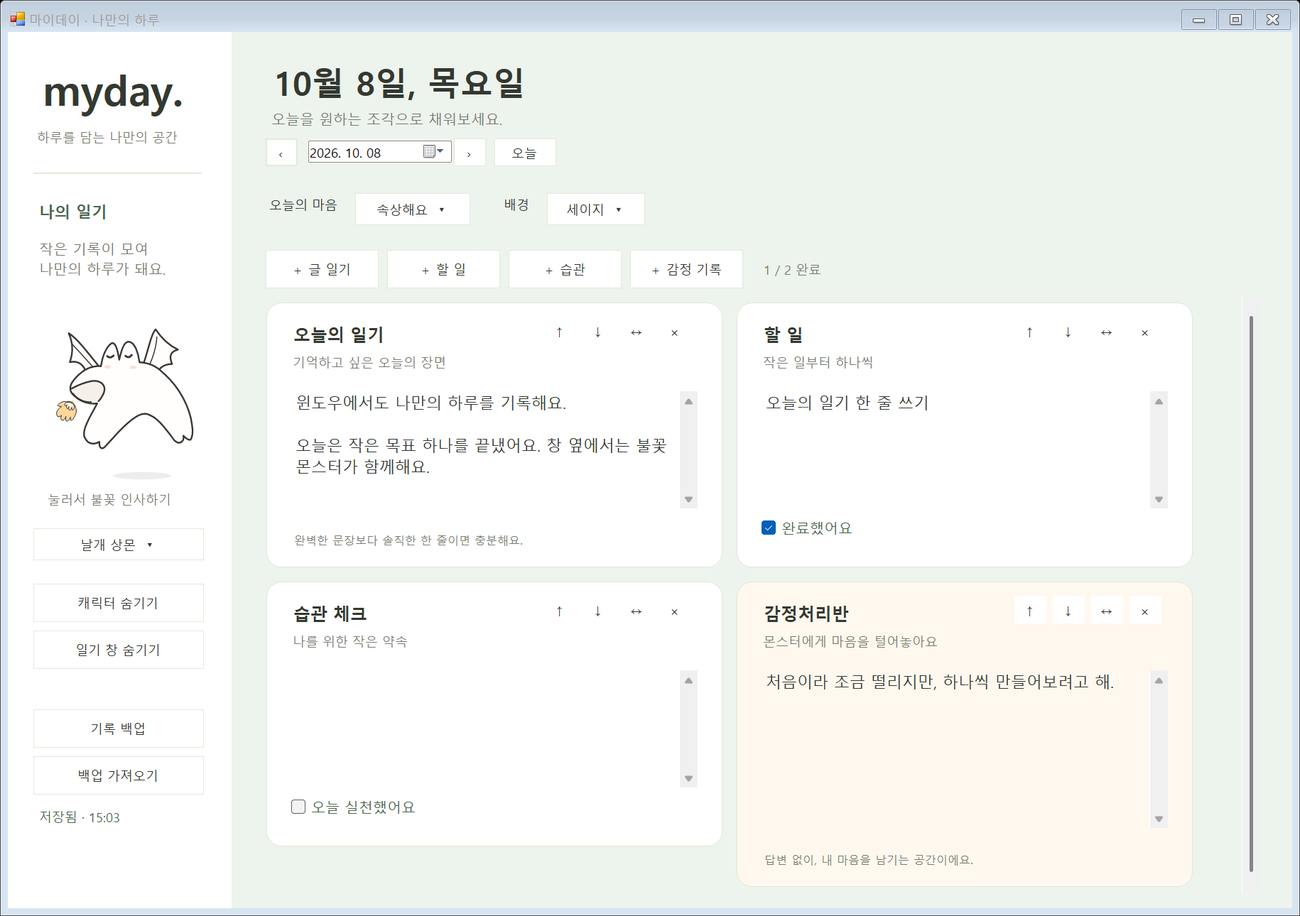
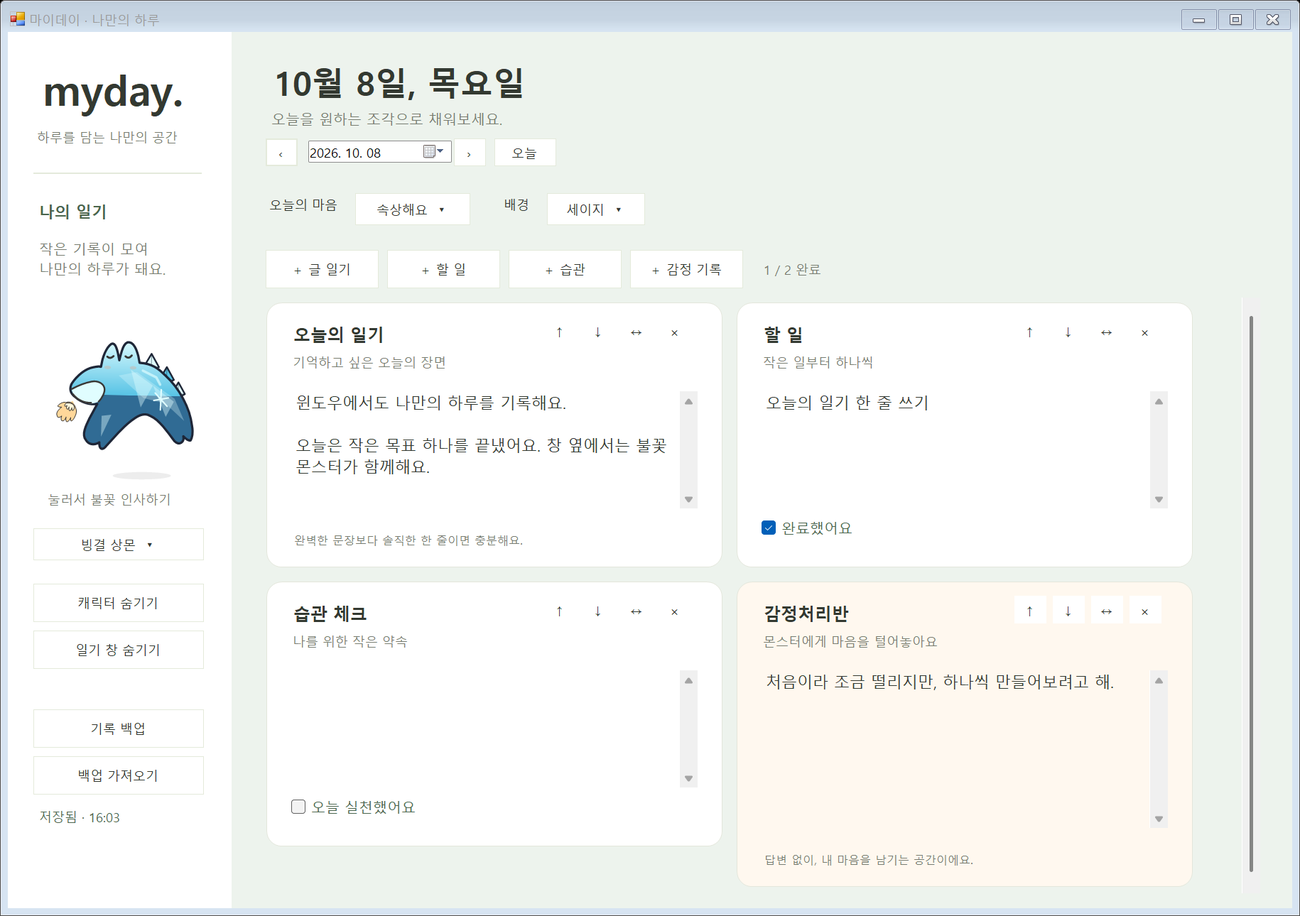
feat: add RPG elemental styles for Sangmon

Changed region(s): [[0.0311, 0.3721, 0.1557, 0.4961], [0.0623, 0.5891, 0.0934, 0.6202]]

diff --git a/windows/Character/GameSkins.cs b/windows/Character/GameSkins.cs
@@ -1,0 +1,156 @@
+using System;
+using System.Drawing;
+using System.Drawing.Drawing2D;
+using Outline=MyDay.Windows.Character.MonsterPainter.Shape;
+
+namespace MyDay.Windows.Character
+{
+    // RPG monster materials share Sangmon's original body path, face and gestures.
+    internal static class GameSkins
+    {
+        public static bool IsGame(MonsterVariant variant) { return (int)variant>=(int)MonsterVariant.Ember && (int)variant<=(int)MonsterVariant.Astral; }
+        public static Color Light(MonsterVariant variant)
+        {
+            switch(variant) {
+                case MonsterVariant.Ember: return Color.FromArgb(255,218,137);
+                case MonsterVariant.Frost: return Color.FromArgb(224,253,255);
+                case MonsterVariant.Volt: return Color.FromArgb(255,245,162);
+                case MonsterVariant.Venom: return Color.FromArgb(214,248,156);
+                case MonsterVariant.Shadow: return Color.FromArgb(202,182,238);
+                case MonsterVariant.Golem: return Color.FromArgb(223,220,203);
+                case MonsterVariant.Ocean: return Color.FromArgb(190,247,246);
+                default: return Color.FromArgb(217,211,255);
+            }
+        }
+        public static Color Tone(MonsterVariant variant)
+        {
+            switch(variant) {
+                case MonsterVariant.Ember: return Color.FromArgb(235,100,70);
+                case MonsterVariant.Frost: return Color.FromArgb(88,195,229);
+                case MonsterVariant.Volt: return Color.FromArgb(243,198,54);
+                case MonsterVariant.Venom: return Color.FromArgb(105,177,73);
+                case MonsterVariant.Shadow: return Color.FromArgb(115,77,165);
+                case MonsterVariant.Golem: return Color.FromArgb(138,145,136);
+                case MonsterVariant.Ocean: return Color.FromArgb(45,163,192);
+                default: return Color.FromArgb(108,109,218);
+            }
+        }
+        private static Color Dark(MonsterVariant variant)
+        {
+            var tone=Tone(variant); return Color.FromArgb(tone.R*55/100,tone.G*55/100,tone.B*65/100);
+        }
+        private static readonly Color Ink=Color.FromArgb(30,38,55);
+        public static bool PaintBody(Graphics g,Outline body,MonsterPose pose,MonsterVariant variant)
+        {
+            if(!IsGame(variant)) return false;
+            var saved=g.Save(); g.SetClip(body.Path,CombineMode.Intersect);
+            using(var fill=new LinearGradientBrush(new Rectangle(90,422,470,370),Light(variant),Dark(variant),90)) {
+                fill.InterpolationColors=new ColorBlend {
+                    Colors=new[] {Light(variant),Tone(variant),Dark(variant),Dark(variant)},
+                    Positions=new[] {0f,.49f,.491f,1f}
+                };
+                g.FillPath(fill,body.Path);
+            }
+            // A hard lower facet and a short highlight give a readable game silhouette.
+            using(var facet=new Outline().M(274,540).L(334,528).L(459,611).L(492,682).L(429,627).L(357,611).Close())
+                Fill(g,facet,Color.FromArgb(75,Light(variant)),false);
+            Line(g,new Outline().M(353,523).L(398,544).L(411,567),8,Color.FromArgb(170,Light(variant)));
+            Color accent=Light(variant);
+            switch(variant) {
+                case MonsterVariant.Ember:
+                    using(var plate=new Outline().M(363,560).L(394,547).L(444,590).L(467,646).L(426,631).L(398,597).Close()) Fill(g,plate,Ink,false);
+                    Line(g,new Outline().M(389,556).L(405,581).L(394,600).L(427,616).L(450,640)
+                        .M(405,581).L(432,580).M(427,616).L(423,637),6,Color.FromArgb(255,190+(int)(pose.Pulse*40),98));
+                    break;
+                case MonsterVariant.Frost:
+                    using(var facets=new Outline().M(314,521).L(387,570).L(348,641).Close()
+                        .M(388,571).L(457,621).L(431,670).Close().M(220,670).L(252,666).L(219,737).Close()) Fill(g,facets,Color.FromArgb(105,accent),false);
+                    Line(g,new Outline().M(395,594).L(435,636).M(415,583).L(413,648).M(391,618).L(439,609),5,accent); break;
+                case MonsterVariant.Volt:
+                    using(var bolt=new Outline().M(399,548).L(372,601).L(408,601).L(387,652)
+                        .L(448,581).L(412,584).L(432,550).Close()) Fill(g,bolt,Ink,false);
+                    Line(g,new Outline().M(395,563).L(382,594).L(420,594).L(406,619),4,accent); break;
+                case MonsterVariant.Venom:
+                    using(var ooze=new Outline().M(325,521).Q(388,520,448,569).L(451,615)
+                        .Q(438,635,426,608).L(423,589).Q(410,622,397,596).L(390,563)
+                        .Q(370,579,358,553).Close()) Fill(g,ooze,Color.FromArgb(128,64,147),false);
+                    Dot(g,386,616,9,accent); Dot(g,414,641,6,accent); break;
+                case MonsterVariant.Shadow:
+                    using(var mist=new Outline().M(323,537).Q(383,524,437,585).L(480,670).L(439,644)
+                        .L(458,674).Q(369,632,377,581).L(344,591).Close()) Fill(g,mist,Color.FromArgb(54,42,96),false);
+                    Line(g,new Outline().M(387,587).L(421,599).L(394,621).L(418,637),5,Color.FromArgb(208,163,255)); break;
+                case MonsterVariant.Golem:
+                    using(var plates=new Outline().M(325,531).L(365,530).L(390,562).L(374,593).L(335,585).Close()
+                        .M(385,585).L(421,570).L(452,606).L(437,638).L(401,626).Close()) Fill(g,plates,Tone(variant));
+                    Line(g,new Outline().M(412,589).L(402,609).L(425,609).M(413,595).L(416,622),5,Color.FromArgb(156,231,198)); break;
+                case MonsterVariant.Ocean:
+                    Line(g,new Outline().M(307,557).C(337,531,360,584,385,565).C(413,545,430,595,457,579)
+                        .M(366,601).C(393,580,420,631,452,611),7,accent);
+                    Dot(g,398,639,7,Color.FromArgb(210,accent)); break;
+                case MonsterVariant.Astral:
+                    Line(g,new Outline().M(399,557).L(439,579).L(437,621).L(400,641).L(364,619).L(365,578).Close()
+                        .M(399,557).L(400,641).M(365,578).L(437,621).M(439,579).L(364,619),4,Color.FromArgb(245,213,132));
+                    Gem(g,400,603,13,Color.FromArgb(250,225,160)); break;
+            }
+            g.Restore(saved);
+            using(var pen=new Pen(Ink,7.5f) { LineJoin=LineJoin.Round,StartCap=LineCap.Round,EndCap=LineCap.Round }) g.DrawPath(pen,body.Path);
+            return true;
+        }
+        public static void DrawBehind(Graphics g,MonsterPose pose,MonsterVariant variant)
+        {
+            if(!IsGame(variant)) return;
+            float sway=(float)Math.Sin(pose.Phase*Math.PI*2/4.2)*6;
+            Color light=Light(variant),tone=Tone(variant);
+            switch(variant) {
+                case MonsterVariant.Ember:
+                    using(var ridge=new Outline().M(364,529).L(377,487).L(401,550).L(427,520)
+                        .L(440,581).L(472,563).L(476,622).Close()) Fill(g,ridge,Ink);
+                    Line(g,new Outline().M(383,501).L(392,534).M(432,539).L(441,567).M(470,585).L(468,607),4,light); break;
+                case MonsterVariant.Frost:
+                    Gem(g,381,511,25,light); Gem(g,432,551,24,tone); Gem(g,471,596,22,light); break;
+                case MonsterVariant.Volt:
+                    Line(g,new Outline().M(434,509+sway).L(468,496+sway).L(451,524+sway).L(487,534+sway)
+                        .M(493,589-sway).L(530,599-sway).L(516,629-sway).L(544,642-sway),6,light); break;
+                case MonsterVariant.Venom:
+                    Bubble(g,439,515+sway,13,light); Bubble(g,480,550-sway,9,tone);
+                    Bubble(g,515,582+sway,6,light); break;
+                case MonsterVariant.Shadow:
+                    using(var shade=new Outline().M(433,540).Q(485,516+sway,496,493+sway).Q(494,550,477,574)
+                        .Q(549,542,550,575).Q(529,601,506,614).Q(552,605,558,638)
+                        .L(504,681).Close()) Fill(g,shade,Color.FromArgb(128,100,181)); break;
+                case MonsterVariant.Golem:
+                    using(var rocks=new Outline().M(359,527).L(353,486).L(385,470).L(409,542)
+                        .L(440,527).L(480,565).L(464,609).Close()) Fill(g,rocks,tone);
+                    Line(g,new Outline().M(366,488).L(395,533).M(453,544).L(466,567),4,light); break;
+                case MonsterVariant.Ocean:
+                    using(var crest=new Outline().M(383,540).Q(410,482,441,480).Q(420,524,458,538)
+                        .Q(446,567,480,587).L(454,625).Close()) Fill(g,crest,tone);
+                    Bubble(g,478,526+sway,9,light); Bubble(g,522,565-sway,6,light); break;
+                case MonsterVariant.Astral:
+                    Gem(g,440+sway,512-sway,18,Color.FromArgb(245,213,132));
+                    Line(g,new Outline().M(439,539).Q(485,559,510,599),4,light);
+                    Gem(g,516,598,9,light); break;
+            }
+        }
+        private static void Gem(Graphics g,float x,float y,float size,Color color)
+        {
+            using(var gem=new Outline().M(x,y-size*1.7f).L(x+size,y).L(x,y+size*.5f).L(x-size,y).Close()) Fill(g,gem,color);
+            Line(g,new Outline().M(x,y-size*1.7f).L(x,y+size*.5f).M(x-size,y).L(x+size,y),3,Color.FromArgb(140,Ink));
+        }
+        private static void Bubble(Graphics g,float x,float y,float size,Color color)
+        {
+            using(var brush=new SolidBrush(Color.FromArgb(85,color))) g.FillEllipse(brush,x-size,y-size,size*2,size*2);
+            using(var pen=new Pen(color,3)) g.DrawEllipse(pen,x-size,y-size,size*2,size*2);
+            Dot(g,x-size*.3f,y-size*.35f,2.5f,Light(MonsterVariant.Frost));
+        }
+        private static void Dot(Graphics g,float x,float y,float size,Color color)
+        { using(var brush=new SolidBrush(color)) g.FillEllipse(brush,x-size,y-size,size*2,size*2); }
+        private static void Fill(Graphics g,Outline shape,Color color,bool outline=true)
+        {
+            using(var brush=new SolidBrush(color)) g.FillPath(brush,shape.Path);
+            if(outline) using(var pen=new Pen(Ink,5.5f) { LineJoin=LineJoin.Round }) g.DrawPath(pen,shape.Path);
+        }
+        private static void Line(Graphics g,Outline path,float width,Color color)
+        { using(path) using(var pen=new Pen(color,width) { LineJoin=LineJoin.Round,StartCap=LineCap.Round,EndCap=LineCap.Round }) g.DrawPath(pen,path.Path); }
+    }
+}

diff --git a/windows/Tests.cs b/windows/Tests.cs
@@ -46,7 +46,7 @@ namespace MyDay.Windows
                 using(var stream=new MemoryStream(Encoding.UTF8.GetBytes("{\"Version\":1,\"Days\":[]}"))) Check(DiaryStore.Read(stream).CharacterStyle=="original","Older diary without variant field loads with original character");
                 book.CharacterStyle="future-skin"; DiaryStore.Validate(book);
                 Check(book.CharacterStyle=="original" && book.Days.Count==2,"Unknown imported variant falls back without losing dates");
-                Check(MonsterVariants.All.Select(MonsterVariants.Id).Distinct().Count()==48 && MonsterVariants.All.All(v=>MonsterVariants.FromId(MonsterVariants.Id(v))==v),"Forty-eight variant IDs are distinct and round-trip");
+                Check(MonsterVariants.All.Select(MonsterVariants.Id).Distinct().Count()==56 && MonsterVariants.All.All(v=>MonsterVariants.FromId(MonsterVariants.Id(v))==v),"Fifty-six variant IDs are distinct and round-trip");
                 Check(MonsterVariants.All.Take(8).Select(MonsterVariants.Id).SequenceEqual(new[] {"original","puffy","winged","speedy","dazed","spiky","horned","mini"}),"Original eight saved IDs retain their values and order");
                 var oldForms=new[] {"droplet","puddle","pill","cube","cloud","twin"};
                 var corrected=new[] {"fin","shell","tailed","crystal","furry","flower"};
@@ -136,7 +136,16 @@ namespace MyDay.Windows
                     identity&=sample(246,476).R<100 && sample(305,476).R<100;
                     identity&=sample(350,730).A==0;
                 }
-                Check(identity,"All 40 additions retain raised eyes, original pupils and the open arch between the feet");
+                Check(identity,"All 48 appearances retain raised eyes, original pupils and the open arch between the feet");
+                bool materials=true;
+                var colors=new System.Collections.Generic.HashSet<int>();
+                foreach(var variant in MonsterVariants.All.Where(GameSkins.IsGame)) using(var image=new Bitmap(240,220)) {
+                    using(var g=Graphics.FromImage(image)) MonsterPainter.Draw(g,new Rectangle(16,22,208,176),MonsterPose.ForActivity(0,PetActivity.Rest,0,0,0),true,variant);
+                    var material=image.GetPixel(145,105);
+                    materials&=material.A==255 && material.R+material.G+material.B<680;
+                    colors.Add(material.ToArgb());
+                }
+                Check(materials && colors.Count==8,"Eight RPG styles use distinct body materials rather than accessory-only recoloring");
                 bool quiet=true;
                 foreach(var activity in new[] { PetActivity.Rest,PetActivity.Walk,PetActivity.Hop,PetActivity.Look,PetActivity.Sleep,PetActivity.Hover,PetActivity.Drag })
                     for(int i=0;i<30;i++) quiet&=MonsterPose.ForActivity(i*.1,activity,i*.1,0,0).FireStrength==0;
@@ -227,7 +236,7 @@ namespace MyDay.Windows
             }
             Console.WriteLine("Rendered 80 native animation frames.");
         }
-        public static void VariantPreview(string directory,int start=0,int count=48)
+        public static void VariantPreview(string directory,int start=0,int count=56,bool gameCards=false)
         {
             Directory.CreateDirectory(directory);
             var variants=MonsterVariants.All.Skip(start).Take(count).ToArray();
@@ -236,14 +245,15 @@ namespace MyDay.Windows
                 double time=frame*.05;
                 using(var image=new Bitmap(960,((variants.Length+3)/4)*290)) {
                     using(var g=Graphics.FromImage(image)) {
-                        g.Clear(Color.FromArgb(243,246,238));
+                        g.Clear(gameCards?Color.FromArgb(15,22,37):Color.FromArgb(243,246,238));
                         for(int index=0;index<variants.Length;index++) {
                             var variant=variants[index]; int x=index%4*240,y=index/4*290;
-                            using(var panel=new SolidBrush(Color.White))
+                            using(var panel=new SolidBrush(gameCards?Color.FromArgb(29,40,61):Color.White))
                             using(var rounded=Design.Rounded(new RectangleF(x+8,y+8,224,274),16)) g.FillPath(panel,rounded);
+                            if(gameCards) using(var pen=new Pen(GameSkins.Tone(variant),3)) g.DrawLine(pen,x+28,y+35,x+212,y+35);
                             var activity=variant==MonsterVariant.Dazed?PetActivity.Rest:variant==MonsterVariant.Spiky?PetActivity.Look:variant==MonsterVariant.Puffy || variant==MonsterVariant.Mini || variant==MonsterVariant.Angel?PetActivity.Hop:PetActivity.Walk;
                             MonsterPainter.Draw(g,new Rectangle(x+16,y+52,208,176),MonsterPose.ForActivity(time,activity,time,0,0),true,variant);
-                            TextRenderer.DrawText(g,MonsterVariants.Name(variant),font,new Rectangle(x+8,y+247,224,28),Color.FromArgb(70,85,65),
+                            TextRenderer.DrawText(g,MonsterVariants.Name(variant),font,new Rectangle(x+8,y+247,224,28),gameCards?Color.FromArgb(231,238,249):Color.FromArgb(70,85,65),
                                 TextFormatFlags.HorizontalCenter|TextFormatFlags.VerticalCenter|TextFormatFlags.NoPadding|TextFormatFlags.NoPrefix);
                         }
                     }

diff --git a/windows/Character/MonsterVariants.cs b/windows/Character/MonsterVariants.cs
@@ -8,7 +8,8 @@ namespace MyDay.Windows.Character
         Angel, Devil, Crown, Wizard, Pirate, Astronaut, Headphones, Glasses,
         Scarf, Backpack, SleepCap, Raincoat, Winter, Star, Moon, Heart,
         Cat, Rabbit, Fox, Puppy, Bear, Ram, Deer, Dragon,
-        Butterfly, Axolotl, Shark, Peacock, Turtle, Octopus, Robot, Cactus
+        Butterfly, Axolotl, Shark, Peacock, Turtle, Octopus, Robot, Cactus,
+        Ember, Frost, Volt, Venom, Shadow, Golem, Ocean, Astral
     }
     public static class MonsterVariants
     {
@@ -19,7 +20,8 @@ namespace MyDay.Windows.Character
             "angel","devil","crown","wizard","pirate","astronaut","headphones","glasses",
             "scarf","backpack","sleep-cap","raincoat","winter","star","moon","heart",
             "cat","rabbit","fox","puppy","bear","ram","deer","dragon",
-            "butterfly","axolotl","shark","peacock","turtle","octopus","robot","cactus"
+            "butterfly","axolotl","shark","peacock","turtle","octopus","robot","cactus",
+            "ember","frost","volt","venom","shadow","golem","ocean","astral"
         };
         private static readonly string[] Names={
             "기본 상몬","빵빵 상몬","날개 상몬","쌩쌩 상몬","멍한 상몬","삐죽 상몬","뿔 상몬","꼬마 상몬",
@@ -27,7 +29,8 @@ namespace MyDay.Windows.Character
             "천사 상몬","악마 상몬","왕관 상몬","마법사 상몬","해적 상몬","우주 상몬","헤드폰 상몬","안경 상몬",
             "목도리 상몬","배낭 상몬","잠옷 상몬","우비 상몬","겨울 상몬","별 상몬","달 상몬","하트 상몬",
             "고양이 상몬","토끼 상몬","여우 상몬","강아지 상몬","곰 상몬","양 상몬","사슴 상몬","용 상몬",
-            "나비 상몬","아홀로틀 상몬","상어 상몬","공작 상몬","거북 상몬","문어 상몬","로봇 상몬","선인장 상몬"
+            "나비 상몬","아홀로틀 상몬","상어 상몬","공작 상몬","거북 상몬","문어 상몬","로봇 상몬","선인장 상몬",
+            "화염 상몬","빙결 상몬","전격 상몬","맹독 상몬","그림자 상몬","암석 상몬","해류 상몬","비전 상몬"
         };
         public static string Id(MonsterVariant variant) { return Ids[(int)variant]; }
         public static string Name(MonsterVariant variant) { return Names[(int)variant]; }

diff --git a/windows/Character/MonsterPainter.cs b/windows/Character/MonsterPainter.cs
@@ -92,6 +92,7 @@ namespace MyDay.Windows.Character
             g.ScaleTransform(pose.WidthScale*(variant==MonsterVariant.Speedy?1.05f:1),pose.BodyScale*(variant==MonsterVariant.Speedy?.9f:1)); g.TranslateTransform(-275, -730);
             DrawBehind(g,pose,variant);
             MonsterAdditions.DrawBehind(g,pose,variant);
+            GameSkins.DrawBehind(g,pose,variant);
             float l = pose.Toe, r = -pose.Toe;
             if(variant==MonsterVariant.Puffy) {
                 using(var body=new Shape().M(215,513).C(219,482,231,451,248,439).C(261,433,268,455,275,491)
@@ -115,11 +116,13 @@ namespace MyDay.Windows.Character
                 .Q(494,745+r,483,752+r).Q(473,758+r,461,747+r).C(438,718,409,679,381,668)
                 .C(357,654,334,672,318,684).C(287,708,260,742,238,765+l).C(225,783+l,213,778+l,214,755+l)
                 .C(196,767+l,177,761+l,170,749+l).C(154,732,169,702,180,679).L(205,632)
-                .C(181,637,150,627,133,612).C(112,598,113,582,120,568).C(137,542,165,519,190,515).Q(207,511,215,513).Close()) Fill(g, body, Body);
+                .C(181,637,150,627,133,612).C(112,598,113,582,120,568).C(137,542,165,519,190,515).Q(207,511,215,513).Close()) {
+                    if(!GameSkins.PaintBody(g,body,pose,variant)) Fill(g,body,Body);
+                }
             }
             MonsterAdditions.DrawFront(g,pose,variant);
             using (var mouth = new Shape().M(120,586).Q(154,567,185,561).C(205,557,222,565,227,579)
-                .C(232,593,220,614,209,625).Q(168,643,133,611).Q(123,601,120,586).Close()) Fill(g, mouth, Mouth, false);
+                .C(232,593,220,614,209,625).Q(168,643,133,611).Q(123,601,120,586).Close()) Fill(g, mouth, GameSkins.IsGame(variant)?GameSkins.Light(variant):Mouth, false);
             using (var lip = new Shape().M(120,586).Q(154,567,185,561).C(205,557,222,565,227,579)
                 .C(232,593,220,614,209,625).M(185,629).Q(148,630,124,602))
             using (var pen = new Pen(Ink, 5.5f) { StartCap = LineCap.Round, EndCap = LineCap.Round }) g.DrawPath(pen, lip.Path);

diff --git a/windows/UI/DiaryWindow.cs b/windows/UI/DiaryWindow.cs
@@ -261,11 +261,19 @@ namespace MyDay.Windows.UI
                 ((ToolStripMenuItem)menu.DropDownItems[(int)variant]).PerformClick();
                 if(characterChoice.SelectedIndex!=(int)variant || avatar.Variant!=variant) throw new Exception("Desktop menu missed "+variant);
             }
+            var games=pet.ContextMenuStrip.Items.OfType<ToolStripMenuItem>().First(item=>item.Text=="게임 스타일");
+            var gameVariants=MonsterVariants.All.Where(GameSkins.IsGame).ToArray();
+            if(games.DropDownItems.Count!=gameVariants.Length) throw new Exception("Game style shortcut count is wrong");
+            for(int i=0;i<gameVariants.Length;i++) {
+                ((ToolStripMenuItem)games.DropDownItems[i]).PerformClick();
+                if(avatar.Variant!=gameVariants[i] || characterChoice.SelectedIndex!=(int)gameVariants[i]) throw new Exception("Game shortcut did not update diary");
+                if(games.DropDownItems.OfType<ToolStripMenuItem>().Count(item=>item.Checked)!=1) throw new Exception("Game style checkmarks are out of sync");
+            }
             characterChoice.SelectedIndex=(int)MonsterVariant.Mini;
             if(!FlushSave() || store.Load().CharacterStyle!="mini") throw new Exception("Variant did not save");
-            characterChoice.SelectedIndex=(int)MonsterVariant.Winged;
+            characterChoice.SelectedIndex=(int)MonsterVariant.Frost;
             ChangeDate(date.AddDays(1)); ChangeDate(date.AddDays(-1));
-            if(characterChoice.SelectedIndex!=(int)MonsterVariant.Winged) throw new Exception("Date change reset global variant");
+            if(characterChoice.SelectedIndex!=(int)MonsterVariant.Frost) throw new Exception("Date change reset global variant");
             var original=Size; Size=MinimumSize; PerformLayout(); ArrangeCards();
             foreach(var card in board.Controls.OfType<BlockCard>())
                 if(card.Width>board.ClientSize.Width || card.Editor.Width<=0 || card.Editor.Height<=0) throw new Exception("Small window layout overflow");

diff --git a/windows/Character/DesktopPet.cs b/windows/Character/DesktopPet.cs
@@ -53,6 +53,13 @@ namespace MyDay.Windows.Character
                 option.Click+=delegate { Variant=choice; }; variantItems[(int)item]=option; versions.DropDownItems.Add(option);
             }
             menu.Items.Add(versions);
+            var games=new ToolStripMenuItem("게임 스타일");
+            foreach(var item in MonsterVariants.All) if(GameSkins.IsGame(item)) {
+                var choice=item; var option=new ToolStripMenuItem(MonsterVariants.Name(item)) { Checked=item==variant };
+                option.Click+=delegate { Variant=choice; }; games.DropDownItems.Add(option);
+                VariantChanged+=delegate { option.Checked=variant==choice; };
+            }
+            menu.Items.Add(games);
             var roam = new ToolStripMenuItem("자유롭게 움직이기") { Checked = true, CheckOnClick = true };
             roam.CheckedChanged += delegate { roaming = roam.Checked; }; menu.Items.Add(roam);
             var top = new ToolStripMenuItem("다른 창 위에 표시") { Checked = true, CheckOnClick = true };

diff --git a/windows/Program.cs b/windows/Program.cs
@@ -34,7 +34,11 @@ namespace MyDay.Windows
             }
             if(args.Length==2 && args[0]=="--appearance-preview")
             {
-                try { Tests.VariantPreview(Path.GetFullPath(args[1]),8,40); return 0; } catch(Exception ex) { Console.Error.WriteLine(ex); return 1; }
+                try { Tests.VariantPreview(Path.GetFullPath(args[1]),8,48); return 0; } catch(Exception ex) { Console.Error.WriteLine(ex); return 1; }
+            }
+            if(args.Length==2 && args[0]=="--game-preview")
+            {
+                try { Tests.VariantPreview(Path.GetFullPath(args[1]),48,8,true); return 0; } catch(Exception ex) { Console.Error.WriteLine(ex); return 1; }
             }
             if(args.Length==2 && (args[0]=="--variants-first" || args[0]=="--variants-second" || args[0]=="--variants-third"))
             {

diff --git a/docs/SANGMON-DESIGN.md b/docs/SANGMON-DESIGN.md
@@ -1,6 +1,6 @@
 # 상몬 외형 디자인
 
-상몬의 기본 형태 위에 특징을 덧붙입니다. 두 눈이 솟은 머리, 옆으로 나온 입, 아치형 몸과 발, 검은 스케치 선과 밝은 몸색을 공통 기준으로 삼습니다. 몸을 물방울이나 네모로 교체하지 않습니다.
+상몬의 기본 형태 위에 특징을 덧붙입니다. 두 눈이 솟은 머리, 옆으로 나온 입, 아치형 몸과 발을 공통 기준으로 삼습니다. 스케치 외형은 검은 선과 밝은 몸색을 유지하고 게임 스타일은 몸 전체의 색과 재질을 바꿉니다. 몸을 물방울이나 네모로 교체하지 않습니다.
 
 기존 참고 스케치 8종은 유지하고, 같은 기본 몸과 얼굴에 신체 요소 또는 장식을 추가한 40종을 제공합니다. 추가 외형은 기본 몸의 뒤와 앞에 그리는 두 레이어로 분리합니다. 눈·입의 위치와 발 사이의 빈 공간을 유지합니다. 걷기·늘어남·눈 깜박임·불꽃 반응은 공통 렌더러를 사용하며 지느러미·꼬리·날개·목도리·긴 귀·아가미에는 작은 흔들림을 더합니다.
 
@@ -12,19 +12,24 @@
 | 생활·상징 8종 | 목도리, 배낭, 잠옷, 우비, 겨울, 별, 달, 하트 |
 | 귀·뿔·꼬리 8종 | 고양이, 토끼, 여우, 강아지, 곰, 양, 사슴, 용 |
 | 날개·아가미·등 장식 8종 | 나비, 아홀로틀, 상어, 공작, 거북, 문어, 로봇, 선인장 |
+| RPG 속성 스타일 8종 | 화염, 빙결, 전격, 맹독, 그림자, 암석, 해류, 비전 |
 
-총 48종입니다. 색은 추가 요소에만 옅은 파스텔로 적용하며 기본 몸은 밝은 스케치 톤을 유지합니다. 평소에는 불꽃이 없으며 터치와 드문 하품에만 잠깐 불을 뿜습니다. 하품에 별도의 동그란 입을 만들지 않습니다.
+총 56종입니다. 기존 48종은 밝은 스케치 몸에 파스텔 추가 요소를 사용합니다. 게임 8종은 몸 전체를 속성 색으로 칠하고 명암을 구분해 RPG 몬스터처럼 표현합니다. 용암 균열·얼음 면·전기 문양·독성 무늬·그림자 면·암석 판·물결·마법 문양은 원래 몸 경로 안에 잘라 그립니다. 전기·거품·마법 결정에는 작은 움직임을 더합니다.
+
+게임 스타일도 입에서 불을 뿜는 반응은 터치와 드문 하품에만 잠깐 나타납니다. 화염형의 주황색 몸과 균열은 재질 표현이며 계속 불을 뿜는 동작은 추가하지 않습니다. 하품에 별도의 동그란 입을 만들지 않습니다. 게임 스타일 메뉴는 캐릭터 우클릭에서 바로 고를 수 있습니다.
 
 ## 팀에서 수정하는 위치
 
 - `windows/Character/MonsterPainter.cs`: 공통 몸, 얼굴, 포즈와 불꽃
 - `windows/Character/MonsterAdditions.cs`: 추가 외형의 뒤/앞 레이어
-- `windows/Character/MonsterVariants.cs`: 48종 이름, 저장 ID와 이동 속도
+- `windows/Character/GameSkins.cs`: RPG 속성 팔레트, 몸 명암·재질과 뒤쪽 효과
+- `windows/Character/MonsterVariants.cs`: 56종 이름, 저장 ID와 이동 속도
 
 새 외형을 수정할 때 원형의 몸 경로나 눈·입 좌표를 바꾸지 않고 뒤/앞 레이어를 편집합니다. 투명 창 가장자리와 양쪽 방향의 움직임, 눈과 발 사이 빈 공간은 테스트에서 확인합니다. 일기 선택 메뉴와 바탕화면 우클릭 메뉴는 같은 버전 목록을 사용합니다.
 
 기존 첫 8종의 저장 ID와 순서는 유지합니다. 잠시 제공했던 슬라임 형태의 ID `droplet/puddle/pill/cube/cloud/twin`은 `fin/shell/tailed/crystal/furry/flower`로 읽고 다음 저장부터 새 ID로 보관합니다. `sprout/ribbon`은 같은 ID로 수정된 상몬 외형을 사용합니다. 일기 내용은 유지합니다.
 새 16종은 기존 32종 뒤에 추가해 이전 선택 ID와 메뉴 순서도 유지합니다.
+게임 8종도 기존 48종 뒤에 추가합니다. 기존 선택과 기록의 저장 방식은 유지합니다.
 
 ## 참고 자료
 
@@ -35,3 +40,5 @@
 ![상몬 17–32번](../previews/windows-variants-second.gif)
 
 ![상몬 33–48번](../previews/windows-variants-third.gif)
+
+![게임 스타일 상몬](../previews/windows-game-styles.gif)
